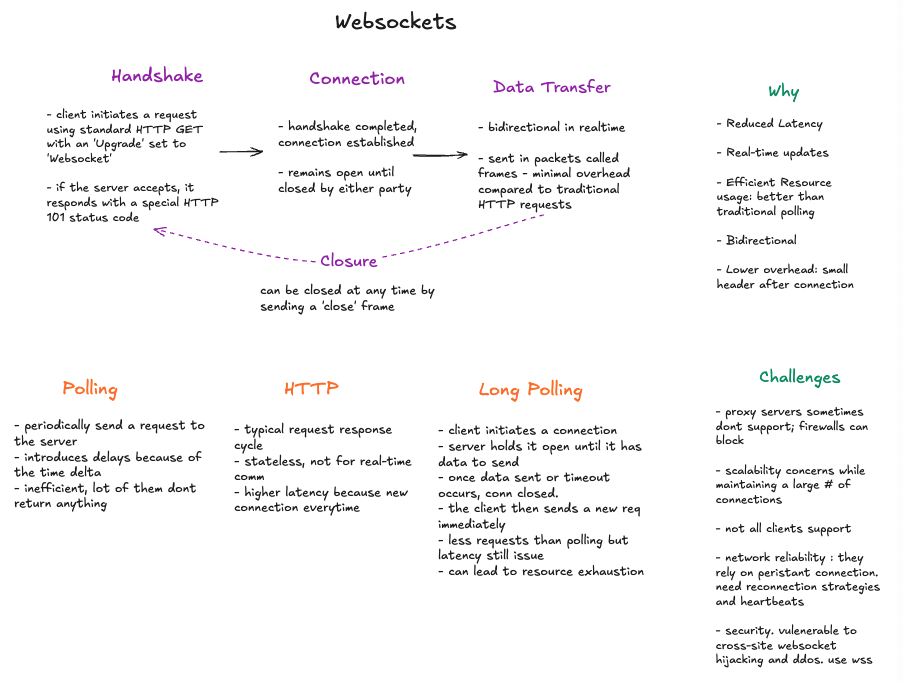
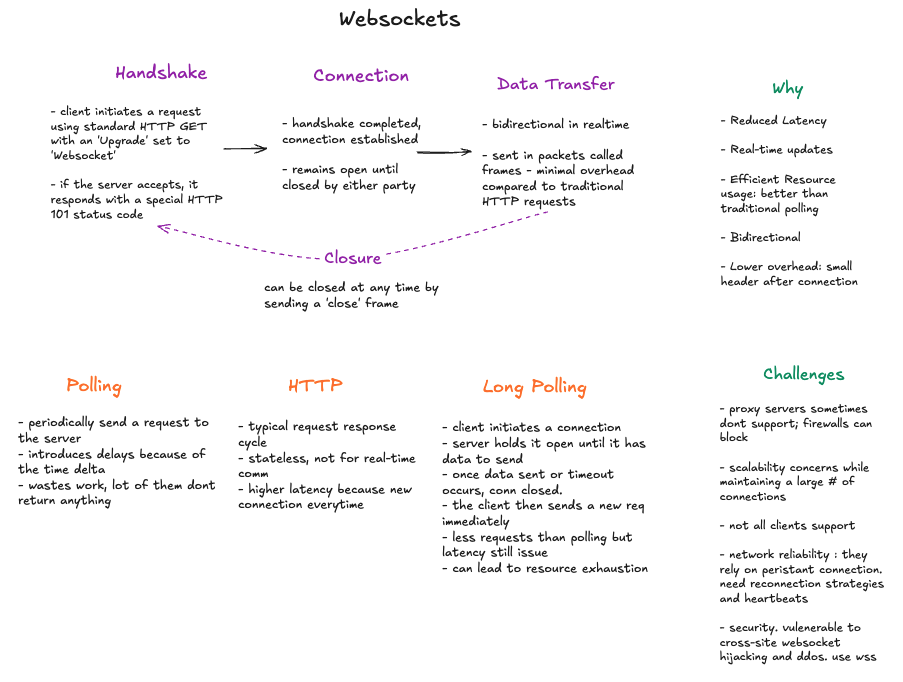
Add notes for Webhooks

diff --git a/system-design/api-fundamentals.md b/system-design/api-fundamentals.md
@@ -75,3 +75,88 @@ Bidirectional, full-duplex comm b/wn a client and a server over a single TCP con
 Allows both client and server to send messages to each other independently and continously after the connection is established.
 
 ![](./images/websockets.png)
+
+# Webhooks
+
+An HTTP Request that one system sends to another when something happens.
+
+Sending system called provider while receiving called consumer / receiver.
+
+- Push based integration pattern.
+- Useful when the system needs to react to a change that happens in _another system_.
+- Examples: `payment_intent.suceeded`, `pull_request.opened`
+
+## How they work
+
+![](./images/webhooks.png)
+
+## Anatomy
+
+1. Request Headers
+
+- carry delivery and security deets.
+- varies by provider.
+
+2. Request Body
+
+- contains the event type, resource data
+
+## Building a Webhook receiver
+
+1. Dedicated endpoint
+
+- Have a separate endpoint for each provider
+- Each can have different signature rules, headers, body etc
+- Accept only expected HTTP method and content type
+
+2. Verify before parsing business data
+
+- Verify the signature (usually HMAC) before trusting the body. Provider creates a signature from the request body and a shared secret. Receiver creates the same signature and compares it with the signaure header.
+- Use contant time comparision so timing diff does not leak the secret
+- Include timestamps when supported to reduce replay risk
+- Store secrets in a secret manager and rotate them
+
+3. Make processing idempotent
+
+- Assume duplicates as most providers use _at-least-once delivery_
+- Store the eventID, deliveryID, or similar to identify duplicates.
+
+4. Don't depend on delivery order
+
+- Events can come in random order.
+- Fetch latest resource state from provider instead of trusting event alone before making an imp change.
+- versioning and timestamps
+
+5. Return the right status code
+
+- Usually 2xx. may vary.
+
+## Designing a Scalable Webhook Infra
+
+Very similar to Echo. Already employed these techniques there.
+
+1. Keep Receving fast
+
+- reciever endpoint should verify signature, validate event shpae, check for duplicates, save the raw event, enqueue a processing job _in the same txn_ & return a 2xx.
+- Don't do extensive business logic here - queue should handle that.
+- Dont return without saving event.
+- Examples for queues: RabbitMQ, Kafka, pg-boss
+
+2. Store events
+
+- Useful for audit and replay
+
+3. Process with workers
+
+- perform actual business logic here. db udpates, calling other services, sending notifs etc.
+
+4. Retry with backoff and jitter
+
+5. Use a dead letter queue
+
+- Put the failed events into a dead letter queue instead of discarding them after multiple failed attempts
+- Reconcile later.
+
+6. Add observaliblity
+
+- Logging and monitoring
